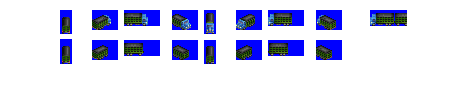
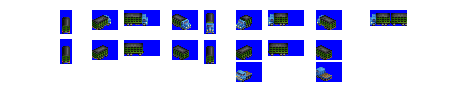
Change: (WIP) shorter Swineshead livestock truck

diff --git a/src/vehicles/swineshead.py b/src/vehicles/swineshead.py
@@ -11,7 +11,7 @@ consist = RVConsist(id = 'swineshead',
 consist.add_unit(LivestockHauler(consist = consist,
                         weight = 10,
                         capacity = 20,
-                        vehicle_length = 6,
+                        vehicle_length = 5,
                         visual_effect = 'VISUAL_EFFECT_DIESEL',
                         spriterow_num = 0))
 
